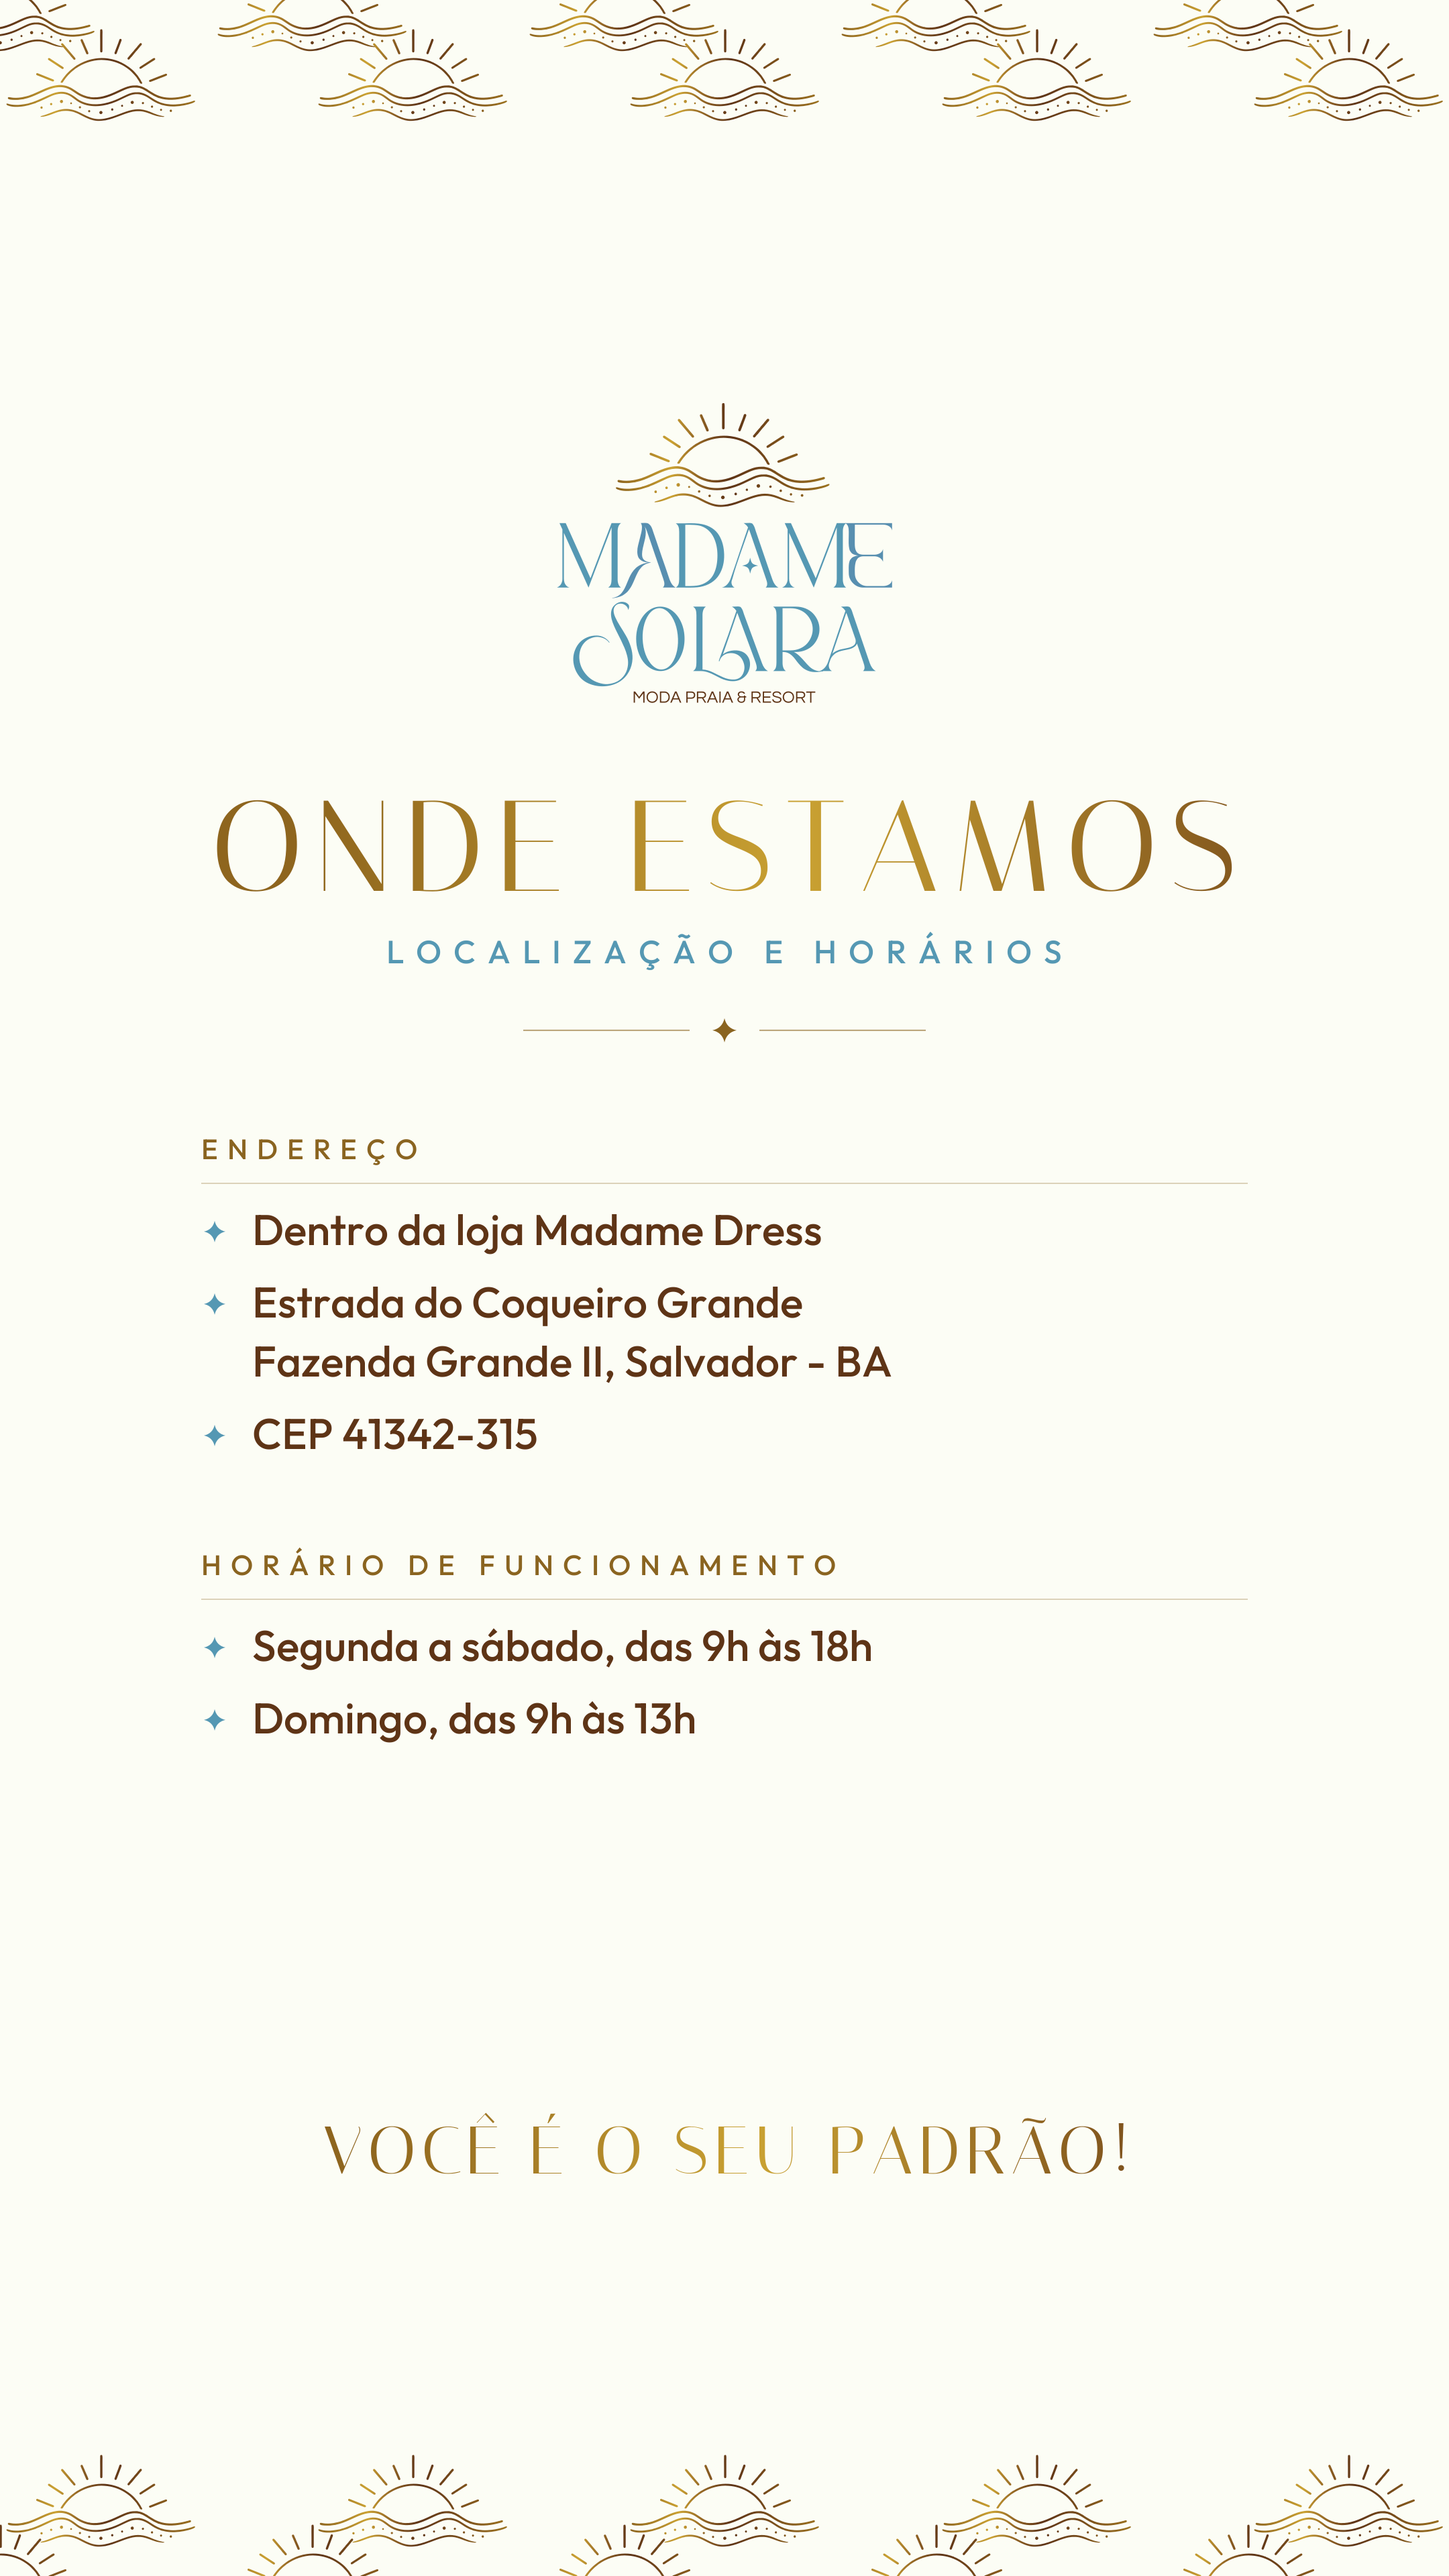
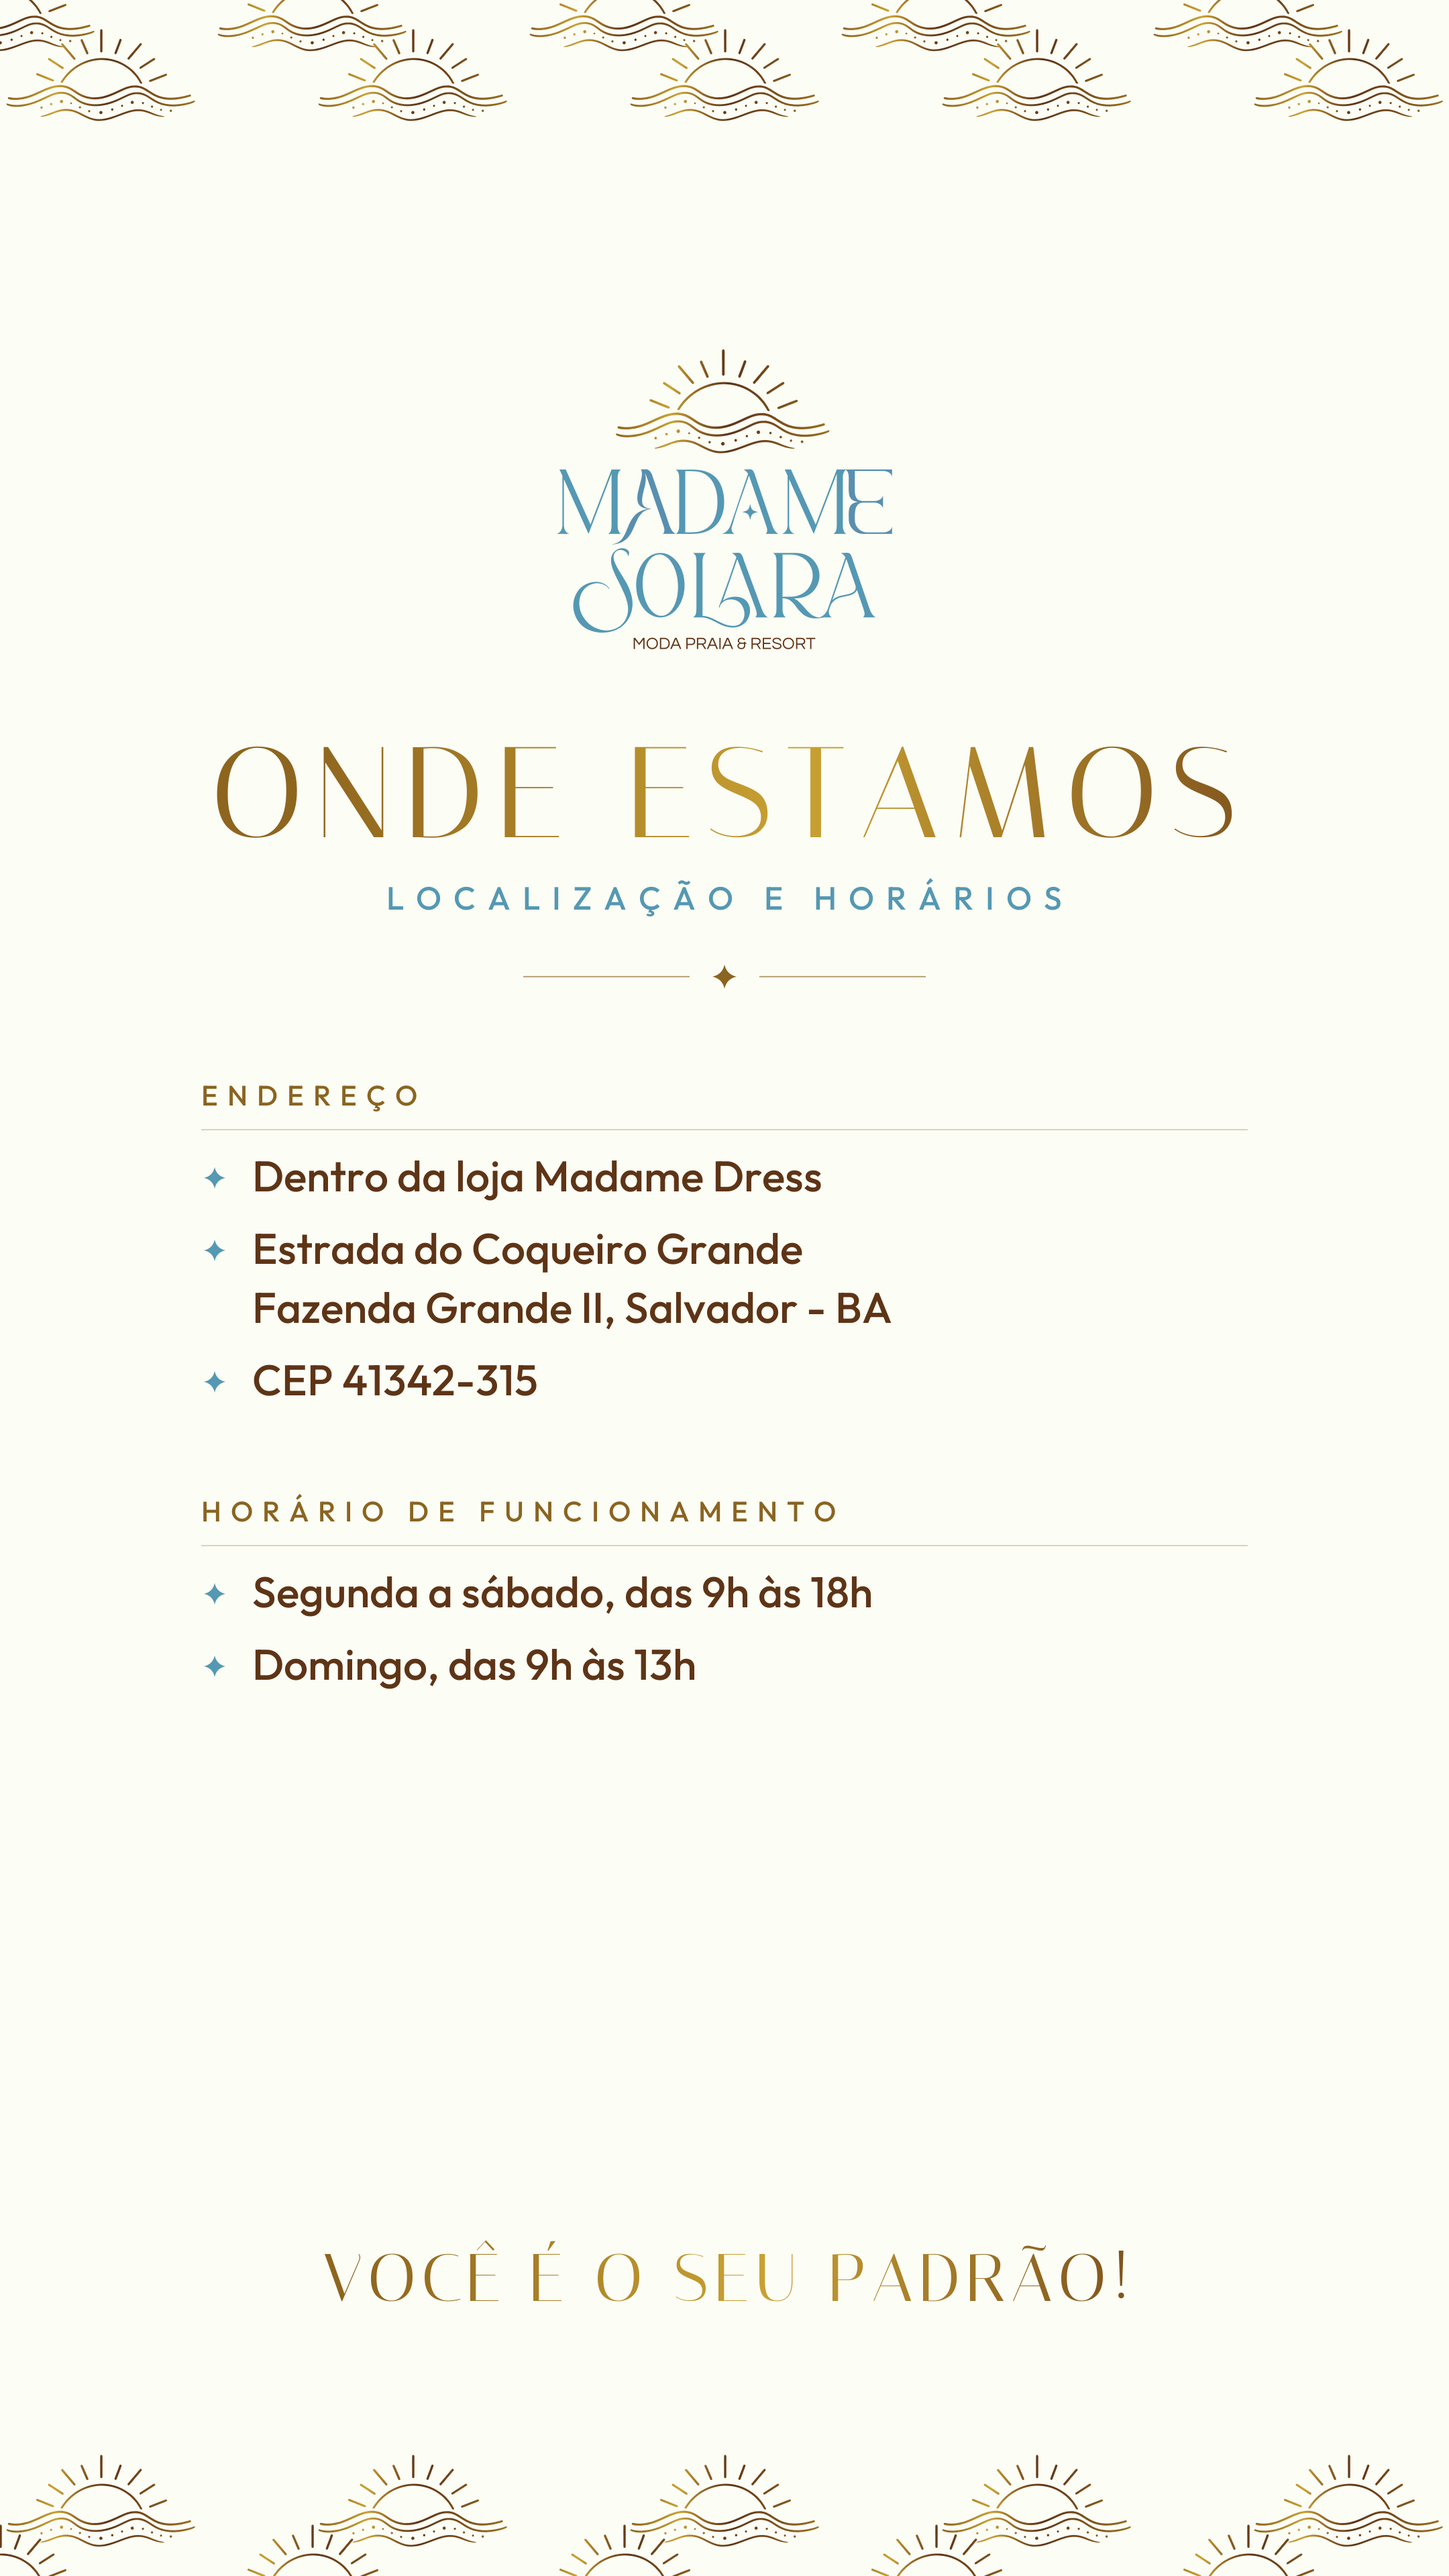
Story da loja: mais espaço para a figurinha de localização
Claude-Session: https://claude.ai/code/session_01SzAcbP1P9JJZBFuRdp2zSG

diff --git a/madame-solara/gerar_story_local.py b/madame-solara/gerar_story_local.py
@@ -47,7 +47,7 @@ def story():
     # logo
     lw = 250
     lh = lw * 116 / 129.5
-    y0 = 300
+    y0 = 260
     s.append(f'<use href="#logo" x="{(W-lw)/2:.1f}" y="{y0}" width="{lw}" height="{lh:.1f}"/>')
 
     # título
@@ -80,7 +80,7 @@ def story():
         y += 40
 
     # assinatura
-    s.append(f'<text x="{W/2}" y="{H-300}" text-anchor="middle" font-family="Italiana" font-size="50" '
+    s.append(f'<text x="{W/2}" y="{H-205}" text-anchor="middle" font-family="Italiana" font-size="50" '
              f'letter-spacing="4" fill="url(#ouro)">VOCÊ É O SEU PADRÃO!</text>')
     s.append("</svg>")
     return "\n".join(s), y
